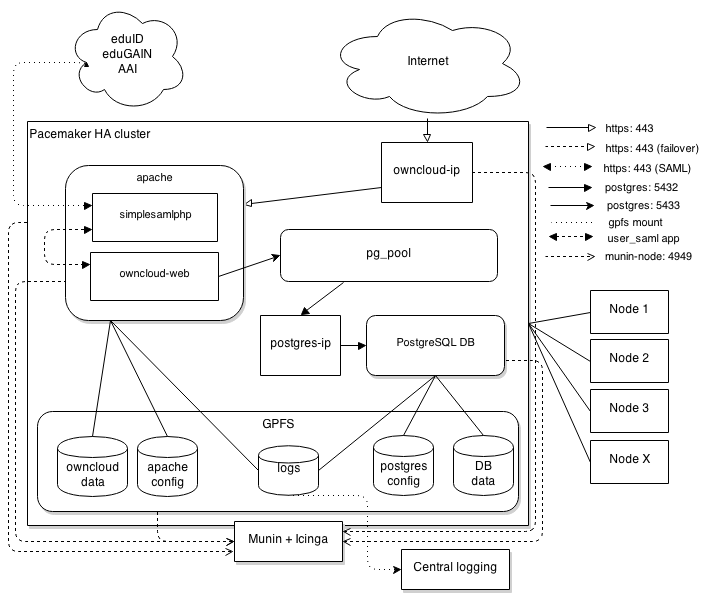
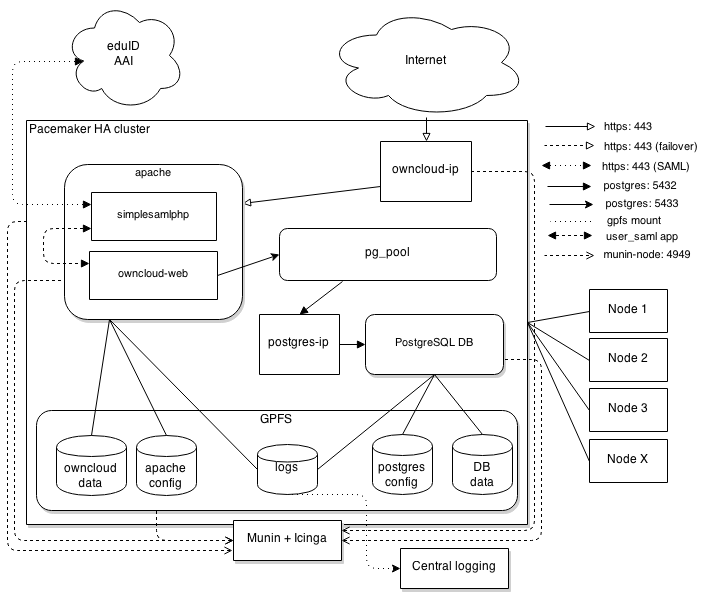
Just a small update

diff --git a/source/cesnet/architecture.rst b/source/cesnet/architecture.rst
@@ -20,7 +20,7 @@ Our system consists of the following components and services:
 * PgPool proxy
 * Pacemaker HA services
 * Icinga & Munin monitoring servers
-* eduID and eduGAIN authentication services
+* eduID federated authentication service
 * GPFS storage
 * TSM server for backups
 
@@ -199,7 +199,6 @@ further analyzed and queried with LogStash and ElasticSearch.
 .. _recommendations: http://wiki.postgresql.org/wiki/Number_Of_Database_Connections#How_to_Find_the_Optimal_Database_Connection_Pool_Size
 .. _SimpleSAMLphp: https://simplesamlphp.org/
 .. _eduId: http://eduid.cz/
-.. _eduGAIN: http://www.geant.net/service/eduGAIN/Pages/home.aspx
 .. _`user_saml`: https://github.com/owncloud/apps/tree/master/user_saml
 .. _`user_shibboleth`: https://github.com/AndreasErgenzinger/user_shibboleth
 .. _WAYF: https://www.eduid.cz/en/tech/wayf

diff --git a/source/cesnet/installation.rst b/source/cesnet/installation.rst
@@ -255,6 +255,8 @@ This can be done in the 'config-metarefresh.php.erb' file::
 	)
 
 Metadata are then refreshed periodically by a cron job already installed by Puppet.
+More generic information about setting your own SP in the SimpleSAMLphp could be found
+in the official configuration guide_.
 
 User_saml Configuration
 ^^^^^^^^^^^^^^^^^^^^^^^
@@ -284,3 +286,4 @@ on its testing page::
 .. _`cesnet/owncloud-apps`: https://github.com/CESNET/owncloud-apps
 .. _elsewhere: http://clusterlabs.org/quickstart-redhat.html
 .. _crmshell: http://crmsh.github.io/
+.. _guide: https://simplesamlphp.org/docs/stable/simplesamlphp-sp
